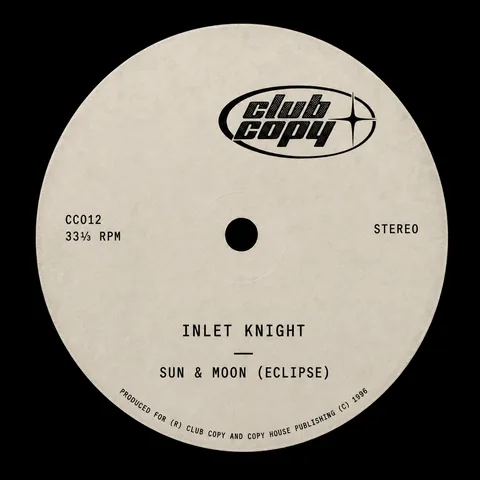
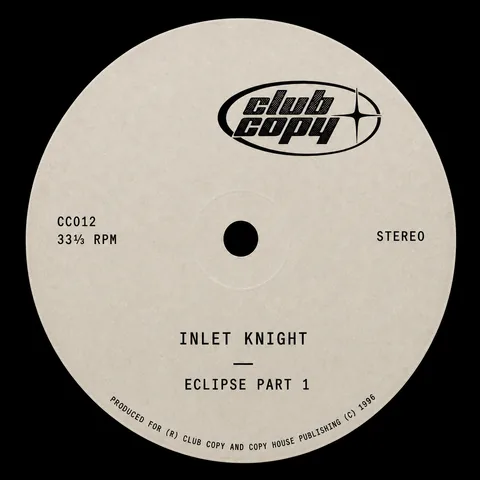
Rename Sun & Moon (Eclipse) to Eclipse Part 1 (#297)
Update display titles, Stripe product name, and vinyl-label cover art
to Eclipse Part 1 while keeping stable release IDs and SKUs paths.

diff --git a/library.html b/library.html
@@ -29,7 +29,7 @@
       {
         "@type": "ListItem",
         "position": 3,
-        "name": "Sun & Moon (Eclipse)",
+        "name": "Eclipse Part 1",
         "url": "https://www.clubcopy.ca/sun-and-moon-eclipse"
       },
       {
@@ -738,7 +738,7 @@
     <div class="cat-list" id="catList" aria-live="polite">
 <article class="cat-row rv" style="--cover:url('solar-eclipse-part-2-cover.webp')" data-release="solar-eclipse-part-2" data-artist-id="inlet-knight" data-genre="house"><div class="cat-cover media-bezel fx-spec"><a href="/solar-eclipse-part-2" tabindex="-1" aria-hidden="true"><img src="solar-eclipse-part-2-cover-480.webp" srcset="solar-eclipse-part-2-cover-480.webp 480w, solar-eclipse-part-2-cover.webp 1200w" sizes="(min-width:860px) 108px, 88px" alt="Solar (Eclipse Part 2) — Inlet Knight" width="1200" height="1200" loading="lazy"/></a><span class="cat-cc">CC012</span><button type="button" class="cat-play" data-play-release="solar-eclipse-part-2" aria-label="Play Solar (Eclipse Part 2)"><svg class="cp-play" viewBox="0 0 24 24" aria-hidden="true"><path d="M8 5v14l11-7z"/></svg><svg class="cp-pause" viewBox="0 0 24 24" aria-hidden="true"><path d="M7 5h3.4v14H7zM13.6 5H17v14h-3.4z"/></svg></button><span class="cat-air status-chip status-chip--air" aria-hidden="true">On air</span></div><div class="cat-main"><a class="cat-title" href="/solar-eclipse-part-2">Solar (Eclipse Part 2)</a><span class="cat-artist">Inlet Knight</span><span class="cat-meta">Single · 1 track · Digital</span></div><div class="cat-side"><span class="cat-year">2026</span><span class="cat-price">$1.99</span></div></article>
 <article class="cat-row rv" style="--cover:url('lunar-eclipse-part-3-cover.webp')" data-release="lunar-eclipse-part-3" data-artist-id="inlet-knight" data-genre="house"><div class="cat-cover media-bezel fx-spec"><a href="/lunar-eclipse-part-3" tabindex="-1" aria-hidden="true"><img src="lunar-eclipse-part-3-cover-480.webp" srcset="lunar-eclipse-part-3-cover-480.webp 480w, lunar-eclipse-part-3-cover.webp 1200w" sizes="(min-width:860px) 108px, 88px" alt="Lunar (Eclipse Part 3) — Inlet Knight" width="1200" height="1200" loading="lazy"/></a><span class="cat-cc">CC012</span><button type="button" class="cat-play" data-play-release="lunar-eclipse-part-3" aria-label="Play Lunar (Eclipse Part 3)"><svg class="cp-play" viewBox="0 0 24 24" aria-hidden="true"><path d="M8 5v14l11-7z"/></svg><svg class="cp-pause" viewBox="0 0 24 24" aria-hidden="true"><path d="M7 5h3.4v14H7zM13.6 5H17v14h-3.4z"/></svg></button><span class="cat-air status-chip status-chip--air" aria-hidden="true">On air</span></div><div class="cat-main"><a class="cat-title" href="/lunar-eclipse-part-3">Lunar (Eclipse Part 3)</a><span class="cat-artist">Inlet Knight</span><span class="cat-meta">Single · 1 track · Digital</span></div><div class="cat-side"><span class="cat-year">2026</span><span class="cat-price">$1.99</span></div></article>
-<article class="cat-row rv" style="--cover:url('sun-and-moon-eclipse-cover.webp')" data-release="sun-and-moon-eclipse" data-artist-id="inlet-knight" data-genre="house"><div class="cat-cover media-bezel fx-spec"><a href="/sun-and-moon-eclipse" tabindex="-1" aria-hidden="true"><img src="sun-and-moon-eclipse-cover-480.webp" srcset="sun-and-moon-eclipse-cover-480.webp 480w, sun-and-moon-eclipse-cover.webp 1200w" sizes="(min-width:860px) 108px, 88px" alt="Sun & Moon (Eclipse) — Inlet Knight" width="1200" height="1200" loading="lazy"/></a><span class="cat-cc">CC012</span><button type="button" class="cat-play" data-play-release="sun-and-moon-eclipse" aria-label="Play Sun & Moon (Eclipse)"><svg class="cp-play" viewBox="0 0 24 24" aria-hidden="true"><path d="M8 5v14l11-7z"/></svg><svg class="cp-pause" viewBox="0 0 24 24" aria-hidden="true"><path d="M7 5h3.4v14H7zM13.6 5H17v14h-3.4z"/></svg></button><span class="cat-air status-chip status-chip--air" aria-hidden="true">On air</span></div><div class="cat-main"><a class="cat-title" href="/sun-and-moon-eclipse">Sun & Moon (Eclipse)</a><span class="cat-artist">Inlet Knight</span><span class="cat-meta">Single · 1 track · Digital</span></div><div class="cat-side"><span class="cat-year">2026</span><span class="cat-price">$1.99</span></div></article>
+<article class="cat-row rv" style="--cover:url('sun-and-moon-eclipse-cover.webp')" data-release="sun-and-moon-eclipse" data-artist-id="inlet-knight" data-genre="house"><div class="cat-cover media-bezel fx-spec"><a href="/sun-and-moon-eclipse" tabindex="-1" aria-hidden="true"><img src="sun-and-moon-eclipse-cover-480.webp" srcset="sun-and-moon-eclipse-cover-480.webp 480w, sun-and-moon-eclipse-cover.webp 1200w" sizes="(min-width:860px) 108px, 88px" alt="Eclipse Part 1 — Inlet Knight" width="1200" height="1200" loading="lazy"/></a><span class="cat-cc">CC012</span><button type="button" class="cat-play" data-play-release="sun-and-moon-eclipse" aria-label="Play Eclipse Part 1"><svg class="cp-play" viewBox="0 0 24 24" aria-hidden="true"><path d="M8 5v14l11-7z"/></svg><svg class="cp-pause" viewBox="0 0 24 24" aria-hidden="true"><path d="M7 5h3.4v14H7zM13.6 5H17v14h-3.4z"/></svg></button><span class="cat-air status-chip status-chip--air" aria-hidden="true">On air</span></div><div class="cat-main"><a class="cat-title" href="/sun-and-moon-eclipse">Eclipse Part 1</a><span class="cat-artist">Inlet Knight</span><span class="cat-meta">Single · 1 track · Digital</span></div><div class="cat-side"><span class="cat-year">2026</span><span class="cat-price">$1.99</span></div></article>
 <article class="cat-row rv" style="--cover:url('together-cover.webp')" data-release="together" data-artist-id="inlet-knight" data-genre="house"><div class="cat-cover media-bezel fx-spec"><a href="/together" tabindex="-1" aria-hidden="true"><img src="together-cover-480.webp" srcset="together-cover-480.webp 480w, together-cover.webp 1200w" sizes="(min-width:860px) 108px, 88px" alt="Together — Inlet Knight" width="1200" height="1200" loading="lazy"/></a><span class="cat-cc">CC008</span><button type="button" class="cat-play" data-play-release="together" aria-label="Play Together"><svg class="cp-play" viewBox="0 0 24 24" aria-hidden="true"><path d="M8 5v14l11-7z"/></svg><svg class="cp-pause" viewBox="0 0 24 24" aria-hidden="true"><path d="M7 5h3.4v14H7zM13.6 5H17v14h-3.4z"/></svg></button><span class="cat-air status-chip status-chip--air" aria-hidden="true">On air</span></div><div class="cat-main"><a class="cat-title" href="/together">Together</a><span class="cat-artist">Inlet Knight</span><div class="cat-tags"><span class="cat-genre">House</span><span class="cat-cue">EP · 4 tracks · Digital</span></div></div><div class="cat-side"><p class="cat-side-label">Format</p><p class="cat-side-value">Digital</p></div><a class="cat-go" href="/together" aria-label="Open Together"><svg viewBox="0 0 24 24" aria-hidden="true"><path d="M5 12h14M13 6l6 6-6 6"/></svg></a></article>
 <article class="cat-row rv" style="--cover:url('j-adore-cover.webp')" data-release="j-adore" data-artist-id="inlet-knight" data-genre="house"><div class="cat-cover media-bezel fx-spec"><a href="/j-adore" tabindex="-1" aria-hidden="true"><img src="j-adore-cover-480.webp" srcset="j-adore-cover-480.webp 480w, j-adore-cover.webp 1200w" sizes="(min-width:860px) 108px, 88px" alt="j&#x27;adore — Inlet Knight" width="1200" height="1200" loading="lazy"/></a><span class="cat-cc">CC007</span><button type="button" class="cat-play" data-play-release="j-adore" aria-label="Play j&#x27;adore"><svg class="cp-play" viewBox="0 0 24 24" aria-hidden="true"><path d="M8 5v14l11-7z"/></svg><svg class="cp-pause" viewBox="0 0 24 24" aria-hidden="true"><path d="M7 5h3.4v14H7zM13.6 5H17v14h-3.4z"/></svg></button><span class="cat-air status-chip status-chip--air" aria-hidden="true">On air</span></div><div class="cat-main"><a class="cat-title" href="/j-adore">j&#x27;adore</a><span class="cat-artist">Inlet Knight</span><div class="cat-tags"><span class="cat-genre">House</span><span class="cat-cue">Single · 2 tracks · Digital</span></div></div><div class="cat-side"><p class="cat-side-label">Format</p><p class="cat-side-value">Digital</p></div><a class="cat-go" href="/j-adore" aria-label="Open j&#x27;adore"><svg viewBox="0 0 24 24" aria-hidden="true"><path d="M5 12h14M13 6l6 6-6 6"/></svg></a></article>
 <article class="cat-row rv" style="--cover:url('enter-cover.webp')" data-release="enter" data-artist-id="double-edge" data-genre="jungle"><div class="cat-cover media-bezel fx-spec"><a href="/enter" tabindex="-1" aria-hidden="true"><img src="enter-cover-480.webp" srcset="enter-cover-480.webp 480w, enter-cover.webp 1200w" sizes="(min-width:860px) 108px, 88px" alt="Enter, Double-Edge — Double-Edge" width="1200" height="1200" loading="lazy"/></a><span class="cat-cc">CC006</span><button type="button" class="cat-play" data-play-release="enter" aria-label="Play Enter, Double-Edge"><svg class="cp-play" viewBox="0 0 24 24" aria-hidden="true"><path d="M8 5v14l11-7z"/></svg><svg class="cp-pause" viewBox="0 0 24 24" aria-hidden="true"><path d="M7 5h3.4v14H7zM13.6 5H17v14h-3.4z"/></svg></button><span class="cat-air status-chip status-chip--air" aria-hidden="true">On air</span></div><div class="cat-main"><a class="cat-title" href="/enter">Enter, Double-Edge</a><span class="cat-artist">Double-Edge</span><div class="cat-tags"><span class="cat-genre">Jungle</span><span class="cat-cue">EP · 3 tracks · Digital</span></div></div><div class="cat-side"><p class="cat-side-label">Format</p><p class="cat-side-value">Digital</p></div><a class="cat-go" href="/enter" aria-label="Open Enter, Double-Edge"><svg viewBox="0 0 24 24" aria-hidden="true"><path d="M5 12h14M13 6l6 6-6 6"/></svg></a></article>

diff --git a/index.html b/index.html
@@ -1732,7 +1732,7 @@
       <div class="wall-grid" id="wallGrid" aria-live="polite" aria-busy="false">
 <article class="wall-item rv" data-release="solar-eclipse-part-2"><div class="wall-card"><div class="wall-art media-bezel fx-spec"><a href="/solar-eclipse-part-2" aria-label="Solar (Eclipse Part 2) — view release"><img src="solar-eclipse-part-2-cover-480.webp" srcset="solar-eclipse-part-2-cover-480.webp 480w, solar-eclipse-part-2-cover.webp 1200w" sizes="(max-width:520px) 90vw, (max-width:980px) 45vw, 280px" alt="Solar (Eclipse Part 2) — artwork" loading="lazy" width="1200" height="1200"/></a><button type="button" class="wall-play" data-play-release="solar-eclipse-part-2" data-play-stage aria-label="Play Solar (Eclipse Part 2)"><svg class="wp-play" viewBox="0 0 24 24" aria-hidden="true"><path d="M8 5v14l11-7z"/></svg><svg class="wp-pause" viewBox="0 0 24 24" aria-hidden="true"><path d="M7 5h3.4v14H7zM13.6 5H17v14h-3.4z"/></svg></button><div class="wall-eq" aria-hidden="true"><i></i><i></i><i></i></div><span class="wall-air status-chip status-chip--air" aria-hidden="true">On air</span></div><div class="wall-meta"><p class="wall-cat">CC012 · Single · 2026</p><h3 class="wall-title"><a href="/solar-eclipse-part-2">Solar (Eclipse Part 2)</a></h3><p class="wall-artist">Inlet Knight</p></div></div></article>
 <article class="wall-item rv" data-release="lunar-eclipse-part-3"><div class="wall-card"><div class="wall-art media-bezel fx-spec"><a href="/lunar-eclipse-part-3" aria-label="Lunar (Eclipse Part 3) — view release"><img src="lunar-eclipse-part-3-cover-480.webp" srcset="lunar-eclipse-part-3-cover-480.webp 480w, lunar-eclipse-part-3-cover.webp 1200w" sizes="(max-width:520px) 90vw, (max-width:980px) 45vw, 280px" alt="Lunar (Eclipse Part 3) — artwork" loading="lazy" width="1200" height="1200"/></a><button type="button" class="wall-play" data-play-release="lunar-eclipse-part-3" data-play-stage aria-label="Play Lunar (Eclipse Part 3)"><svg class="wp-play" viewBox="0 0 24 24" aria-hidden="true"><path d="M8 5v14l11-7z"/></svg><svg class="wp-pause" viewBox="0 0 24 24" aria-hidden="true"><path d="M7 5h3.4v14H7zM13.6 5H17v14h-3.4z"/></svg></button><div class="wall-eq" aria-hidden="true"><i></i><i></i><i></i></div><span class="wall-air status-chip status-chip--air" aria-hidden="true">On air</span></div><div class="wall-meta"><p class="wall-cat">CC012 · Single · 2026</p><h3 class="wall-title"><a href="/lunar-eclipse-part-3">Lunar (Eclipse Part 3)</a></h3><p class="wall-artist">Inlet Knight</p></div></div></article>
-<article class="wall-item rv" data-release="sun-and-moon-eclipse"><div class="wall-card"><div class="wall-art media-bezel fx-spec"><a href="/sun-and-moon-eclipse" aria-label="Sun & Moon (Eclipse) — view release"><img src="sun-and-moon-eclipse-cover-480.webp" srcset="sun-and-moon-eclipse-cover-480.webp 480w, sun-and-moon-eclipse-cover.webp 1200w" sizes="(max-width:520px) 90vw, (max-width:980px) 45vw, 280px" alt="Sun & Moon (Eclipse) — artwork" loading="lazy" width="1200" height="1200"/></a><button type="button" class="wall-play" data-play-release="sun-and-moon-eclipse" data-play-stage aria-label="Play Sun & Moon (Eclipse)"><svg class="wp-play" viewBox="0 0 24 24" aria-hidden="true"><path d="M8 5v14l11-7z"/></svg><svg class="wp-pause" viewBox="0 0 24 24" aria-hidden="true"><path d="M7 5h3.4v14H7zM13.6 5H17v14h-3.4z"/></svg></button><div class="wall-eq" aria-hidden="true"><i></i><i></i><i></i></div><span class="wall-air status-chip status-chip--air" aria-hidden="true">On air</span></div><div class="wall-meta"><p class="wall-cat">CC012 · Single · 2026</p><h3 class="wall-title"><a href="/sun-and-moon-eclipse">Sun & Moon (Eclipse)</a></h3><p class="wall-artist">Inlet Knight</p></div></div></article>
+<article class="wall-item rv" data-release="sun-and-moon-eclipse"><div class="wall-card"><div class="wall-art media-bezel fx-spec"><a href="/sun-and-moon-eclipse" aria-label="Eclipse Part 1 — view release"><img src="sun-and-moon-eclipse-cover-480.webp" srcset="sun-and-moon-eclipse-cover-480.webp 480w, sun-and-moon-eclipse-cover.webp 1200w" sizes="(max-width:520px) 90vw, (max-width:980px) 45vw, 280px" alt="Eclipse Part 1 — artwork" loading="lazy" width="1200" height="1200"/></a><button type="button" class="wall-play" data-play-release="sun-and-moon-eclipse" data-play-stage aria-label="Play Eclipse Part 1"><svg class="wp-play" viewBox="0 0 24 24" aria-hidden="true"><path d="M8 5v14l11-7z"/></svg><svg class="wp-pause" viewBox="0 0 24 24" aria-hidden="true"><path d="M7 5h3.4v14H7zM13.6 5H17v14h-3.4z"/></svg></button><div class="wall-eq" aria-hidden="true"><i></i><i></i><i></i></div><span class="wall-air status-chip status-chip--air" aria-hidden="true">On air</span></div><div class="wall-meta"><p class="wall-cat">CC012 · Single · 2026</p><h3 class="wall-title"><a href="/sun-and-moon-eclipse">Eclipse Part 1</a></h3><p class="wall-artist">Inlet Knight</p></div></div></article>
 <article class="wall-item rv" data-release="together"><div class="wall-card"><div class="wall-art media-bezel fx-spec"><a href="/together" aria-label="Together — view release"><img src="together-cover-480.webp" srcset="together-cover-480.webp 480w, together-cover.webp 1200w" sizes="(max-width:520px) 90vw, (max-width:980px) 45vw, 280px" alt="Together — artwork" loading="lazy" width="1200" height="1200"/></a><button type="button" class="wall-play" data-play-release="together" data-play-stage aria-label="Play Together"><svg class="wp-play" viewBox="0 0 24 24" aria-hidden="true"><path d="M8 5v14l11-7z"/></svg><svg class="wp-pause" viewBox="0 0 24 24" aria-hidden="true"><path d="M7 5h3.4v14H7zM13.6 5H17v14h-3.4z"/></svg></button><div class="wall-eq" aria-hidden="true"><i></i><i></i><i></i></div><span class="wall-air status-chip status-chip--air" aria-hidden="true">On air</span></div><div class="wall-meta"><p class="wall-cat">CC008 · EP · 2026</p><h3 class="wall-title"><a href="/together">Together</a></h3><p class="wall-artist">Inlet Knight</p></div></div></article>
 <article class="wall-item rv" data-release="j-adore"><div class="wall-card"><div class="wall-art media-bezel fx-spec"><a href="/j-adore" aria-label="j&#x27;adore — view release"><img src="j-adore-cover-480.webp" srcset="j-adore-cover-480.webp 480w, j-adore-cover.webp 1200w" sizes="(max-width:520px) 90vw, (max-width:980px) 45vw, 280px" alt="j&#x27;adore — artwork" loading="lazy" width="1200" height="1200"/></a><button type="button" class="wall-play" data-play-release="j-adore" data-play-stage aria-label="Play j&#x27;adore"><svg class="wp-play" viewBox="0 0 24 24" aria-hidden="true"><path d="M8 5v14l11-7z"/></svg><svg class="wp-pause" viewBox="0 0 24 24" aria-hidden="true"><path d="M7 5h3.4v14H7zM13.6 5H17v14h-3.4z"/></svg></button><div class="wall-eq" aria-hidden="true"><i></i><i></i><i></i></div><span class="wall-air status-chip status-chip--air" aria-hidden="true">On air</span></div><div class="wall-meta"><p class="wall-cat">CC007 · Single · 2026</p><h3 class="wall-title"><a href="/j-adore">j&#x27;adore</a></h3><p class="wall-artist">Inlet Knight</p></div></div></article>
 <article class="wall-item rv" data-release="enter"><div class="wall-card"><div class="wall-art media-bezel fx-spec"><a href="/enter" aria-label="Enter, Double-Edge — view release"><img src="enter-cover-480.webp" srcset="enter-cover-480.webp 480w, enter-cover.webp 1200w" sizes="(max-width:520px) 90vw, (max-width:980px) 45vw, 280px" alt="Enter, Double-Edge — artwork" loading="lazy" width="1200" height="1200"/></a><button type="button" class="wall-play" data-play-release="enter" data-play-stage aria-label="Play Enter, Double-Edge"><svg class="wp-play" viewBox="0 0 24 24" aria-hidden="true"><path d="M8 5v14l11-7z"/></svg><svg class="wp-pause" viewBox="0 0 24 24" aria-hidden="true"><path d="M7 5h3.4v14H7zM13.6 5H17v14h-3.4z"/></svg></button><div class="wall-eq" aria-hidden="true"><i></i><i></i><i></i></div><span class="wall-air status-chip status-chip--air" aria-hidden="true">On air</span></div><div class="wall-meta"><p class="wall-cat">CC006 · EP · 2026</p><h3 class="wall-title"><a href="/enter">Enter, Double-Edge</a></h3><p class="wall-artist">Double-Edge</p></div></div></article>

diff --git a/sun-and-moon-eclipse.html b/sun-and-moon-eclipse.html
@@ -3,7 +3,7 @@
 <head>
   <meta charset="UTF-8"/>
   <meta name="viewport" content="width=device-width,initial-scale=1,viewport-fit=cover"/>
-  <title>Inlet Knight — Sun & Moon (Eclipse) | Club Copy</title>
+  <title>Inlet Knight — Eclipse Part 1 | Club Copy</title>
   <script type="application/ld+json">
 {
   "@context": "https://schema.org",
@@ -30,7 +30,7 @@
     {
       "@type": "ListItem",
       "position": 4,
-      "name": "Sun & Moon (Eclipse)",
+      "name": "Eclipse Part 1",
       "item": "https://www.clubcopy.ca/sun-and-moon-eclipse"
     }
   ]
@@ -38,17 +38,17 @@
   </script>
   <link rel="icon" href="favicon.png" type="image/png"/>
   <link rel="apple-touch-icon" href="apple-touch-icon.png"/>
-  <meta name="description" content="Sun & Moon (Eclipse) — single by Inlet Knight. House on Club Copy (CC012). Digital, $1.99 CAD."/>
+  <meta name="description" content="Eclipse Part 1 — single by Inlet Knight. House on Club Copy (CC012). Digital, $1.99 CAD."/>
   <meta name="theme-color" content="#050505"/>
   <link rel="canonical" href="https://www.clubcopy.ca/sun-and-moon-eclipse"/>
   <meta property="og:site_name" content="Club Copy"/>
-  <meta property="og:title" content="Inlet Knight — Sun & Moon (Eclipse)"/>
+  <meta property="og:title" content="Inlet Knight — Eclipse Part 1"/>
   <meta property="og:description" content="Single by Inlet Knight on Club Copy. Somewhere between the two."/>
   <meta property="og:type" content="music.album"/>
   <meta property="og:url" content="https://www.clubcopy.ca/sun-and-moon-eclipse"/>
   <meta property="og:image" content="https://www.clubcopy.ca/sun-and-moon-eclipse-cover.webp"/>
   <meta name="twitter:card" content="summary_large_image"/>
-  <meta name="twitter:title" content="Inlet Knight — Sun & Moon (Eclipse)"/>
+  <meta name="twitter:title" content="Inlet Knight — Eclipse Part 1"/>
   <meta name="twitter:image" content="https://www.clubcopy.ca/sun-and-moon-eclipse-cover.webp"/>
   <meta property="music:musician" content="https://www.clubcopy.ca/artists/inlet-knight"/>
   <script type="application/ld+json">
@@ -56,7 +56,7 @@
   "@context": "https://schema.org",
   "@type": "MusicAlbum",
   "@id": "https://www.clubcopy.ca/sun-and-moon-eclipse#album",
-  "name": "Sun & Moon (Eclipse)",
+  "name": "Eclipse Part 1",
   "url": "https://www.clubcopy.ca/sun-and-moon-eclipse",
   "image": "https://www.clubcopy.ca/sun-and-moon-eclipse-cover.webp",
   "genre": "House",
@@ -78,7 +78,7 @@
   "track": [
     {
       "@type": "MusicRecording",
-      "name": "Sun & Moon (Eclipse)",
+      "name": "Eclipse Part 1",
       "position": 1,
       "duration": "PT5M28S",
       "byArtist": {
@@ -161,10 +161,10 @@
 </div>
 
 <main id="main" itemscope itemtype="https://schema.org/Product">
-  <meta itemprop="name" content="Sun & Moon (Eclipse)"/>
+  <meta itemprop="name" content="Eclipse Part 1"/>
   <meta itemprop="image" content="https://www.clubcopy.ca/sun-and-moon-eclipse-cover.webp"/>
 
-  <section class="ra-hero" aria-label="Sun & Moon (Eclipse) — release">
+  <section class="ra-hero" aria-label="Eclipse Part 1 — release">
     <div class="ra-hero-ambient" style="background-image:url('sun-and-moon-eclipse-cover.webp')" aria-hidden="true"></div>
     <div class="ra-hero-vhs" aria-hidden="true"></div>
     <div class="ra-wrap ra-hero-grid">
@@ -172,7 +172,7 @@
       <div class="ra-stage" id="artworkWrap" data-tilt-stage>
         <div class="ra-stage-shadow" aria-hidden="true"></div>
         <div class="ra-cover" id="releaseDisc">
-          <img src="sun-and-moon-eclipse-cover.webp" alt="Sun & Moon (Eclipse) — Club Copy CC012 label artwork" width="1200" height="1200" fetchpriority="high"/>
+          <img src="sun-and-moon-eclipse-cover.webp" alt="Eclipse Part 1 — Club Copy CC012 label artwork" width="1200" height="1200" fetchpriority="high"/>
         </div>
         <button type="button" class="ra-stage-hit" id="ipPlay" aria-label="Play / pause preview">
           <span class="glyph" aria-hidden="true">
@@ -188,8 +188,8 @@
           <span>CC012</span>
           <span>2026</span>
         </div>
-        <nav class="crumbs" aria-label="Breadcrumb" style="padding:0 0 16px"><a href="/">Home</a><span>/</span><a href="/library">Library</a><span>/</span><a href="/artists/inlet-knight">Inlet Knight</a><span>/</span>Sun & Moon (Eclipse)</nav>
-        <h1 class="ra-hero-title">Sun & Moon (Eclipse)</h1>
+        <nav class="crumbs" aria-label="Breadcrumb" style="padding:0 0 16px"><a href="/">Home</a><span>/</span><a href="/library">Library</a><span>/</span><a href="/artists/inlet-knight">Inlet Knight</a><span>/</span>Eclipse Part 1</nav>
+        <h1 class="ra-hero-title">Eclipse Part 1</h1>
         <div class="ra-hero-facts">
           1 Track Single<br/>
           Digital Only<br/>
@@ -246,8 +246,8 @@
           </div>
           <div class="ra-deck-now">
             <div class="idx">Now Cueing</div>
-            <p class="name" id="ipTrackName">Sun & Moon (Eclipse)</p>
-            <p class="sub"><span id="ipArtist">Inlet Knight</span> — <span id="ipRelease">Sun & Moon (Eclipse)</span></p>
+            <p class="name" id="ipTrackName">Eclipse Part 1</p>
+            <p class="sub"><span id="ipArtist">Inlet Knight</span> — <span id="ipRelease">Eclipse Part 1</span></p>
           </div>
           <canvas class="ra-wave" id="raWave" data-release="sun-and-moon-eclipse" aria-label="Seek within track" role="slider"></canvas>
           <div class="ra-deck-times">
@@ -272,9 +272,9 @@
         <div class="ra-tracks ra-reveal">
           <div class="track-row is-active" data-index="0">
             <span class="track-no">01</span>
-            <span class="track-title">Sun & Moon (Eclipse)</span>
+            <span class="track-title">Eclipse Part 1</span>
             <span class="track-dur">5:28</span>
-            <button class="track-play-btn" type="button" aria-label="Play Sun & Moon (Eclipse)" tabindex="-1"></button>
+            <button class="track-play-btn" type="button" aria-label="Play Eclipse Part 1" tabindex="-1"></button>
           </div>
           <p class="ra-tracks-note">Total running time 5:28</p>
         </div>
@@ -342,7 +342,7 @@
         <form class="footer-form" id="newsletterForm" action="https://formspree.io/f/xdkwjzzr" method="POST">
           <input type="email" id="newsletterEmail" name="email" placeholder="Email" required autocomplete="email"/>
           <input type="text" name="_gotcha" tabindex="-1" autocomplete="off" aria-hidden="true" style="position:absolute;left:-9999px"/>
-          <input type="hidden" name="source" value="Sun & Moon (Eclipse) — release page"/>
+          <input type="hidden" name="source" value="Eclipse Part 1 — release page"/>
           <input type="hidden" name="page" value="" id="signupPageField"/>
           <button type="submit">Join</button>
         </form>
@@ -376,13 +376,13 @@ const RELEASE_ID = 'sun-and-moon-eclipse';
 VCRReleaseBind({
   releaseId: 'sun-and-moon-eclipse',
   tracks: [
-  { id: 'sm-01', title: "Sun & Moon (Eclipse)" }
+  { id: 'sm-01', title: "Eclipse Part 1" }
 ]
 });
 
 (function() {
   const FORMATS = {
-    digital: { sku: 'dg-sun-and-moon-eclipse', name: "Sun & Moon (Eclipse) \u2014 Digital (Single)", price: 1.99 }
+    digital: { sku: 'dg-sun-and-moon-eclipse', name: "Eclipse Part 1 \u2014 Digital (Single)", price: 1.99 }
   };
   const opts = document.querySelectorAll('.ra-format-opt');
   const buyBtn = $('buyBtn');

diff --git a/merch.html b/merch.html
@@ -33,7 +33,7 @@
       {
         "@type": "ListItem",
         "position": 3,
-        "name": "Sun & Moon (Eclipse)",
+        "name": "Eclipse Part 1",
         "url": "https://www.clubcopy.ca/sun-and-moon-eclipse"
       },
       {
@@ -512,12 +512,12 @@
           </div>
         </div>
       </li>
-      <li class="product merch-card is-shown" data-type="music" data-sku="dg-sun-and-moon-eclipse" data-name="Sun & Moon (Eclipse)" data-price="1.99" data-sort="92" data-stock="Digital — emailed after checkout">
-        <a class="product-visual media-bezel fx-spec" href="/sun-and-moon-eclipse" aria-label="Sun & Moon (Eclipse)">
-          <img src="sun-and-moon-eclipse-cover.webp" alt="Sun & Moon (Eclipse)" width="1200" height="1200" loading="lazy"/>
+      <li class="product merch-card is-shown" data-type="music" data-sku="dg-sun-and-moon-eclipse" data-name="Eclipse Part 1" data-price="1.99" data-sort="92" data-stock="Digital — emailed after checkout">
+        <a class="product-visual media-bezel fx-spec" href="/sun-and-moon-eclipse" aria-label="Eclipse Part 1">
+          <img src="sun-and-moon-eclipse-cover.webp" alt="Eclipse Part 1" width="1200" height="1200" loading="lazy"/>
         </a>
         <div class="product-info">
-          <h3 class="product-title"><a href="/sun-and-moon-eclipse">Sun & Moon (Eclipse)</a></h3>
+          <h3 class="product-title"><a href="/sun-and-moon-eclipse">Eclipse Part 1</a></h3>
           <div class="product-meta-row">
             <span class="product-type">Digital</span>
             <span class="product-price">$1.99</span>

diff --git a/artists/inlet-knight.html b/artists/inlet-knight.html
@@ -79,7 +79,7 @@
       },
       {
         "@type": "MusicAlbum",
-        "name": "Sun & Moon (Eclipse)",
+        "name": "Eclipse Part 1",
         "url": "https://www.clubcopy.ca/sun-and-moon-eclipse",
         "datePublished": "2026-08-11",
         "albumReleaseType": "https://schema.org/SingleRelease"
@@ -321,9 +321,9 @@
         </li>
         <li>
           <a href="/sun-and-moon-eclipse">
-            <div class="ar-art"><img src="../sun-and-moon-eclipse-cover.webp" alt="Sun & Moon (Eclipse) — artwork" width="144" height="144" loading="lazy"/></div>
+            <div class="ar-art"><img src="../sun-and-moon-eclipse-cover.webp" alt="Eclipse Part 1 — artwork" width="144" height="144" loading="lazy"/></div>
             <div>
-              <p class="ar-title">Sun & Moon (Eclipse)</p>
+              <p class="ar-title">Eclipse Part 1</p>
               <p class="ar-sub">Single · 1 track · Digital</p>
             </div>
             <span class="ar-meta">CC012 · 2026</span>

diff --git a/api/catalog.js b/api/catalog.js
@@ -91,7 +91,7 @@ const PRODUCTS = {
     format: "digital",
   },
   "dg-sun-and-moon-eclipse": {
-    name: "Sun & Moon (Eclipse) — Digital (Single)",
+    name: "Eclipse Part 1 — Digital (Single)",
     unitAmount: 199,
     digital: true,
     format: "digital",
